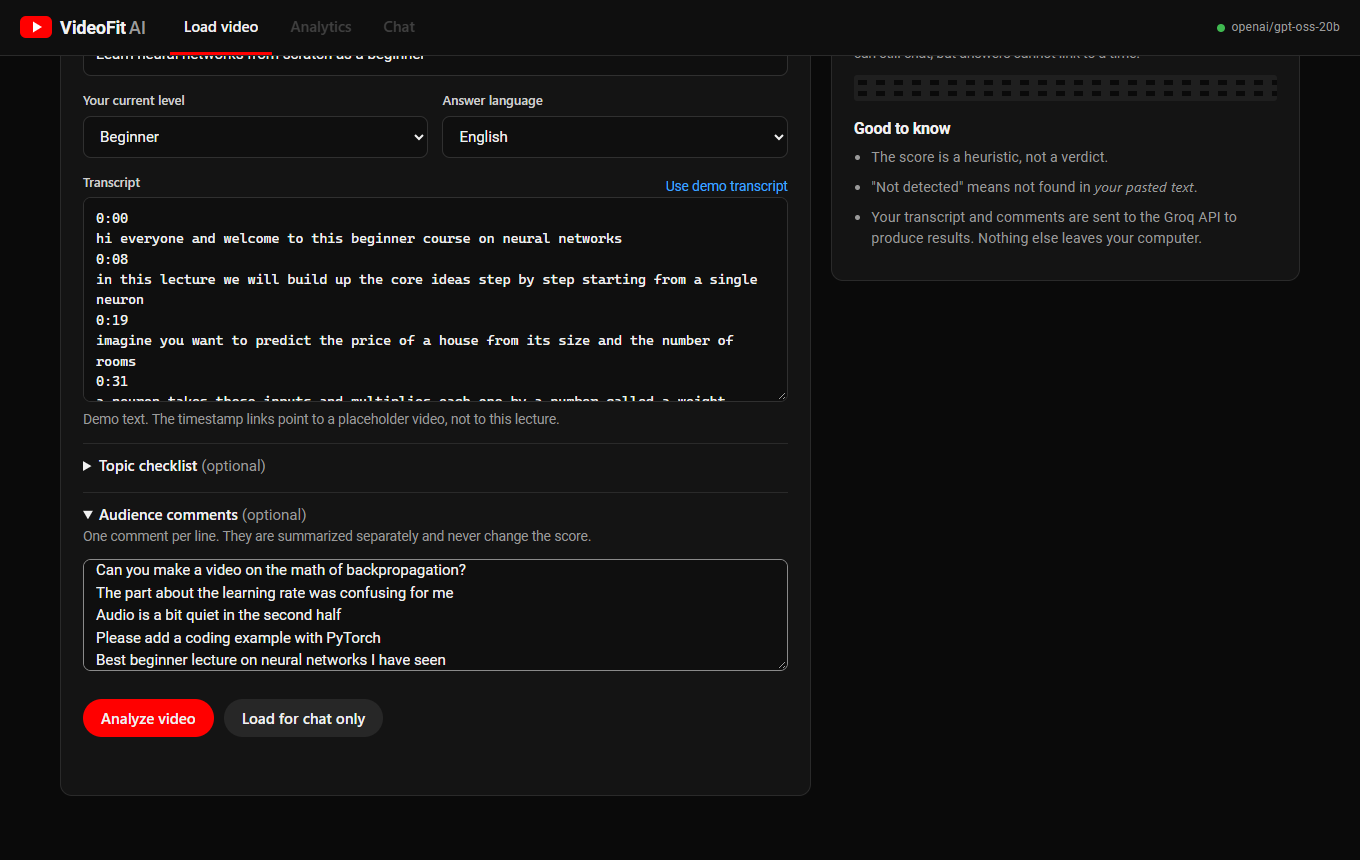
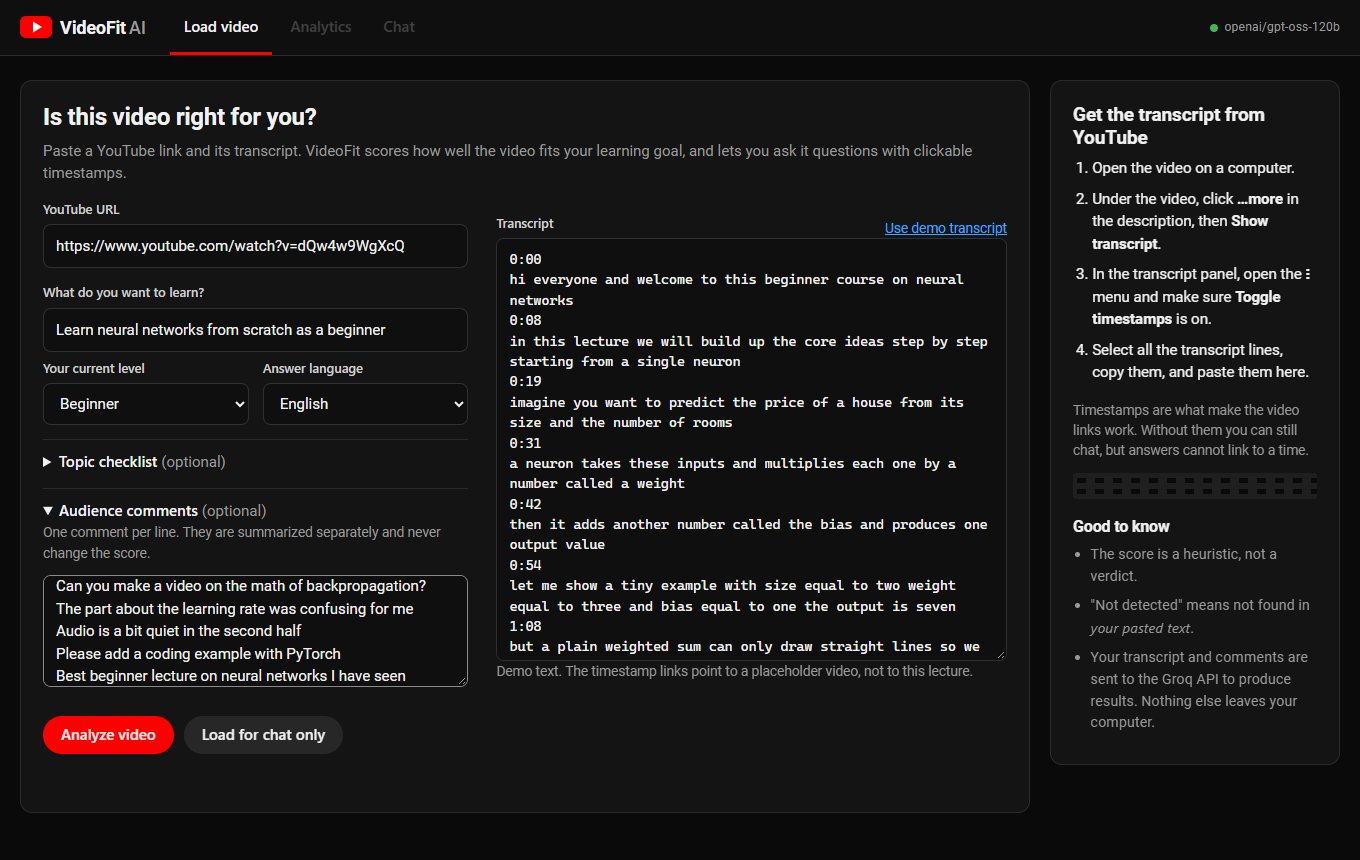
Widen the Load page into a two-column layout and refresh its screenshot
The form now fits on one screen: fields on the left, a tall transcript box on
the right, and a slimmer help panel. Adds a load-only mode to the screenshot
script.

diff --git a/ui/index.html b/ui/index.html
@@ -30,48 +30,54 @@
         <h1>Is this video right for you?</h1>
         <p class="lead">Paste a YouTube link and its transcript. VideoFit scores how well the video fits your learning goal, and lets you ask it questions with clickable timestamps.</p>
 
-        <label for="url">YouTube URL</label>
-        <input id="url" type="url" placeholder="https://www.youtube.com/watch?v=...">
+        <div class="form-cols">
+          <div class="col-fields">
+            <label for="url">YouTube URL</label>
+            <input id="url" type="url" placeholder="https://www.youtube.com/watch?v=...">
 
-        <label for="goal">What do you want to learn?</label>
-        <input id="goal" type="text" maxlength="500" placeholder="e.g. Learn deep learning from beginner to intermediate">
+            <label for="goal">What do you want to learn?</label>
+            <input id="goal" type="text" maxlength="500" placeholder="e.g. Learn deep learning from beginner to intermediate">
 
-        <div class="row">
-          <div>
-            <label for="level">Your current level</label>
-            <select id="level">
-              <option value="beginner">Beginner</option>
-              <option value="intermediate">Intermediate</option>
-              <option value="advanced">Advanced</option>
-            </select>
+            <div class="row">
+              <div>
+                <label for="level">Your current level</label>
+                <select id="level">
+                  <option value="beginner">Beginner</option>
+                  <option value="intermediate">Intermediate</option>
+                  <option value="advanced">Advanced</option>
+                </select>
+              </div>
+              <div>
+                <label for="language">Answer language</label>
+                <select id="language">
+                  <option>English</option><option>Hindi</option><option>Marathi</option><option>Hinglish</option>
+                </select>
+              </div>
+            </div>
+
+            <details>
+              <summary>Topic checklist <span class="muted">(optional)</span></summary>
+              <p class="hint">One topic per line. Leave empty to let the model build a checklist from your goal. Writing your own makes repeated scores comparable.</p>
+              <textarea id="topics" rows="4" placeholder="Gradient descent&#10;Backpropagation&#10;Overfitting"></textarea>
+            </details>
+
+            <details>
+              <summary>Audience comments <span class="muted">(optional)</span></summary>
+              <p class="hint">One comment per line. They are summarized separately and never change the score.</p>
+              <textarea id="comments" rows="4" placeholder="Paste comments here, one per line"></textarea>
+            </details>
           </div>
-          <div>
-            <label for="language">Answer language</label>
-            <select id="language">
-              <option>English</option><option>Hindi</option><option>Marathi</option><option>Hinglish</option>
-            </select>
+
+          <div class="col-transcript">
+            <div class="label-row">
+              <label for="transcript">Transcript</label>
+              <button type="button" class="link" id="demo-btn">Use demo transcript</button>
+            </div>
+            <textarea id="transcript" class="mono" spellcheck="false"
+              placeholder="Paste the transcript here. Timestamped text, SRT and VTT are supported. Hindi, Marathi and Hinglish work too."></textarea>
+            <p class="hint" id="demo-note" hidden></p>
           </div>
         </div>
-
-        <div class="label-row">
-          <label for="transcript">Transcript</label>
-          <button type="button" class="link" id="demo-btn">Use demo transcript</button>
-        </div>
-        <textarea id="transcript" rows="9" class="mono" spellcheck="false"
-          placeholder="Paste the transcript here. Timestamped text, SRT and VTT are supported. Hindi, Marathi and Hinglish work too."></textarea>
-        <p class="hint" id="demo-note" hidden></p>
-
-        <details>
-          <summary>Topic checklist <span class="muted">(optional)</span></summary>
-          <p class="hint">One topic per line. Leave empty to let the model build a checklist from your goal. Writing your own makes repeated scores comparable.</p>
-          <textarea id="topics" rows="4" placeholder="Gradient descent&#10;Backpropagation&#10;Overfitting"></textarea>
-        </details>
-
-        <details>
-          <summary>Audience comments <span class="muted">(optional)</span></summary>
-          <p class="hint">One comment per line. They are summarized separately and never change the score.</p>
-          <textarea id="comments" rows="4" placeholder="Paste comments here, one per line"></textarea>
-        </details>
 
         <div class="actions">
           <button type="submit" class="btn primary" id="analyze-btn">Analyze video</button>

diff --git a/ui/style.css b/ui/style.css
@@ -41,12 +41,18 @@ p { margin: 0 0 .75rem; }
 .dot { width: 8px; height: 8px; border-radius: 50%; background: var(--missing); display: inline-block; }
 .dot.ok { background: var(--covered); } .dot.bad { background: var(--red); }
 
-main { max-width: 1280px; margin: 0 auto; padding: 24px 20px 64px; }
+main { max-width: 1440px; margin: 0 auto; padding: 24px 20px 64px; }
 .panel { background: var(--panel); border: 1px solid var(--line); border-radius: var(--radius); padding: 22px; }
 
 /* ---------- form ---------- */
-.load-grid { display: grid; grid-template-columns: minmax(0, 1.6fr) minmax(280px, 1fr); gap: 20px; align-items: start; }
-.lead { color: var(--muted); max-width: 60ch; margin-bottom: 1.25rem; }
+.load-grid { display: grid; grid-template-columns: minmax(0, 1fr) 290px; gap: 20px; align-items: start; }
+.load-grid h1 { font-size: 1.5rem; }
+.lead { color: var(--muted); margin-bottom: .5rem; }
+.form-cols { display: grid; grid-template-columns: minmax(0, 5fr) minmax(0, 6fr); gap: 28px; }
+.col-fields label:first-child { margin-top: 6px; }
+.col-transcript { display: flex; flex-direction: column; }
+.col-transcript .label-row { margin-top: 6px; }
+.col-transcript textarea { flex: 1; min-height: 340px; }
 label { display: block; font-size: .8rem; font-weight: 500; color: #cfcfcf; margin: 14px 0 6px; }
 .label-row { display: flex; justify-content: space-between; align-items: flex-end; }
 .label-row label { margin-bottom: 6px; }
@@ -173,8 +179,10 @@ summary { cursor: pointer; font-weight: 500; }
 .toast { position: fixed; bottom: 22px; left: 50%; transform: translateX(-50%); background: #2b1212; border: 1px solid #6b1f1f; color: #ffb4b4; padding: 10px 16px; border-radius: 8px; max-width: min(90vw, 560px); z-index: 20; }
 
 /* ---------- responsive ---------- */
+@media (max-width: 1100px) { .load-grid { grid-template-columns: 1fr; } }
+@media (max-width: 760px) { .form-cols { grid-template-columns: 1fr; gap: 0; } .col-transcript textarea { min-height: 220px; } }
 @media (max-width: 960px) {
-  .load-grid, .chat-grid { grid-template-columns: 1fr; }
+  .chat-grid { grid-template-columns: 1fr; }
   .stage { position: static; }
   .chatbox { height: 70vh; }
   .three, .feedback { grid-template-columns: 1fr; }

diff --git a/scripts/make_screenshots.py b/scripts/make_screenshots.py
@@ -23,7 +23,8 @@ COMMENTS = "\n".join([
 ])
 
 
-def main(channel: str = "msedge") -> None:
+def main(channel: str = "msedge", only: str = "") -> None:
+    """`only="load"` captures just the load page (no model calls)."""
     OUT.mkdir(parents=True, exist_ok=True)
     with sync_playwright() as p:
         browser = p.chromium.launch(channel=channel)
@@ -35,6 +36,10 @@ def main(channel: str = "msedge") -> None:
         page.locator("details:has(#comments)").evaluate("d => d.open = true")
         page.fill("#comments", COMMENTS)
         page.screenshot(path=str(OUT / "01-load.png"))
+        if only == "load":
+            browser.close()
+            print("saved to", OUT)
+            return
 
         page.click("#analyze-btn")
         page.wait_for_function("!document.getElementById('dash').hidden", timeout=300_000)
@@ -60,4 +65,4 @@ def main(channel: str = "msedge") -> None:
 
 
 if __name__ == "__main__":
-    main(*sys.argv[1:2])
+    main(*sys.argv[1:3])
